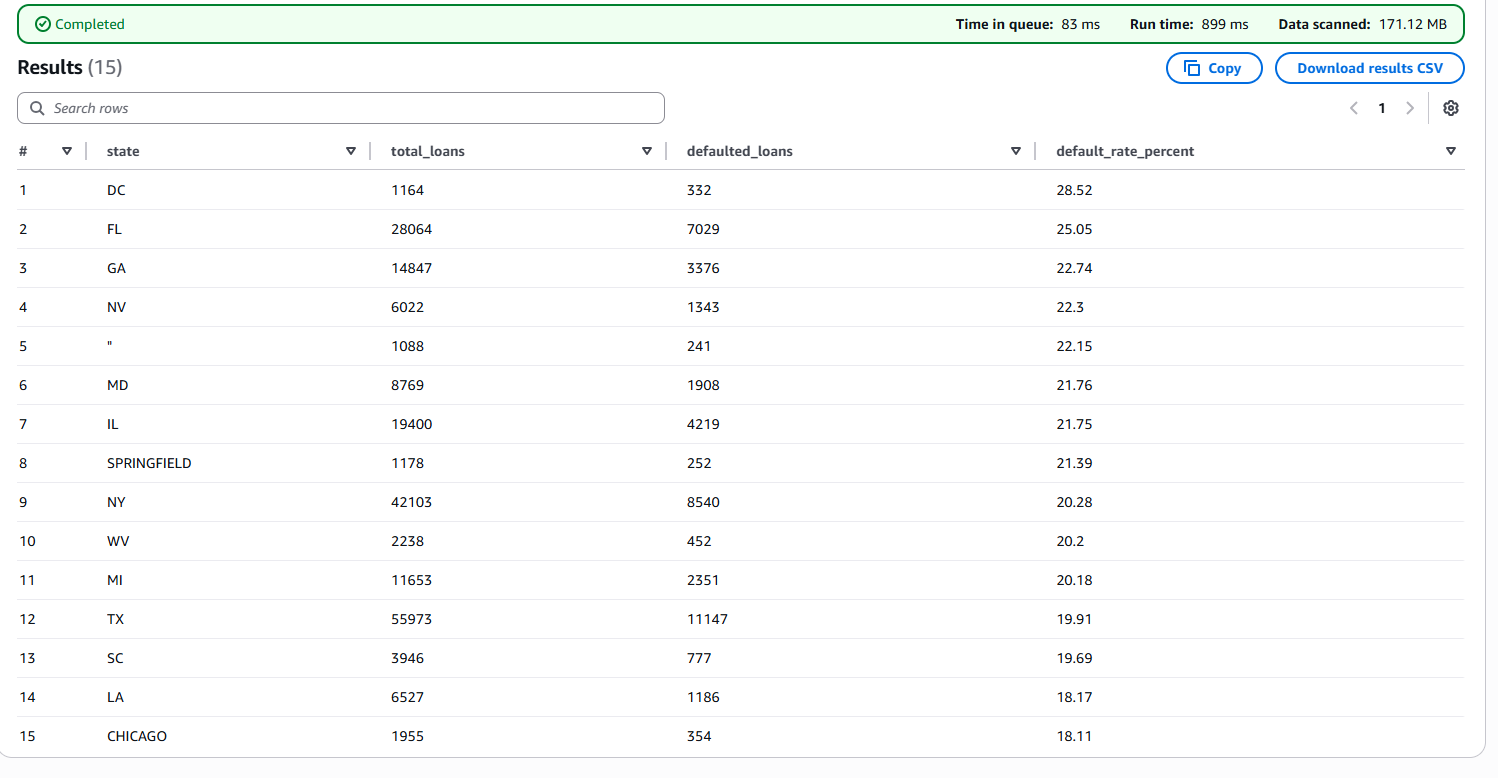
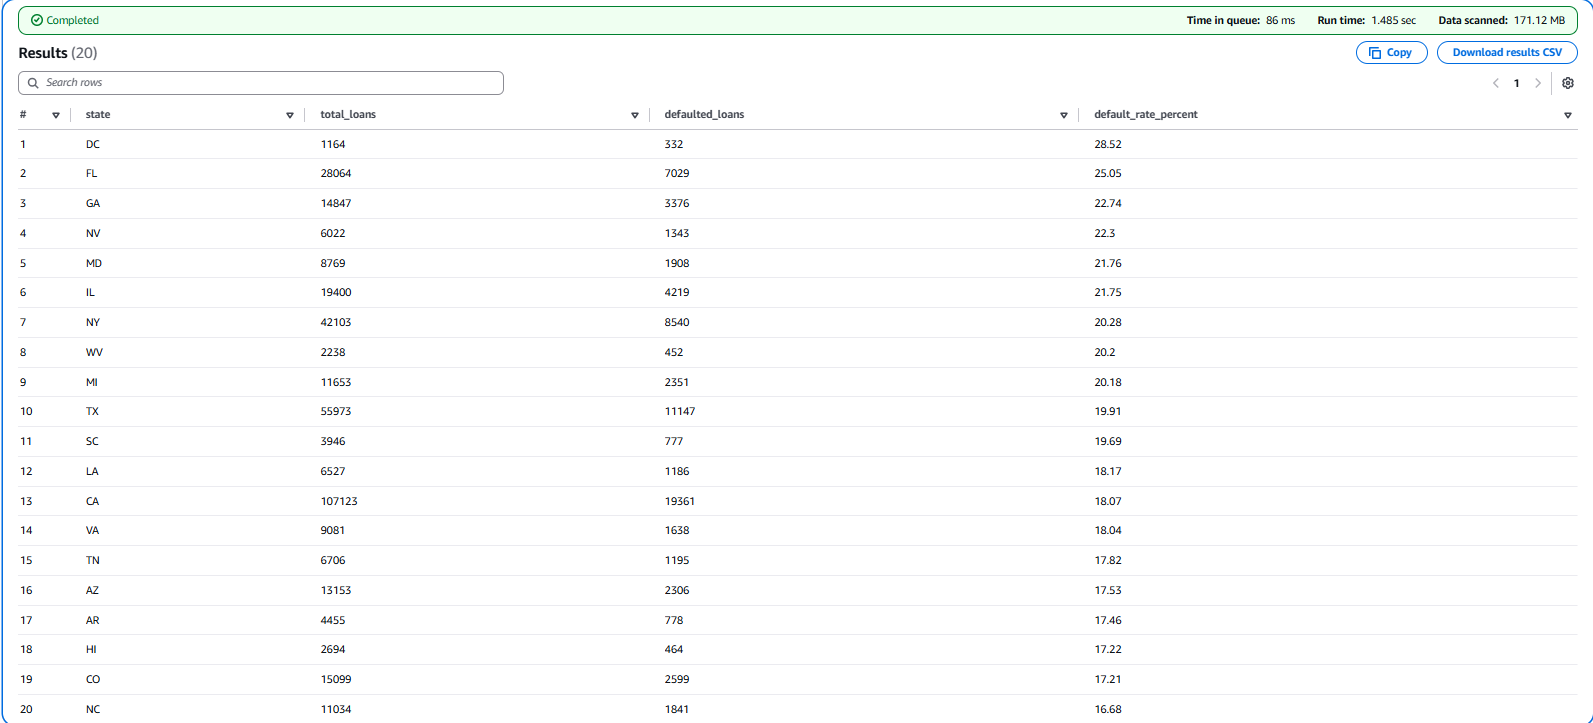
fix state query screenshot, add jobs_retained input, clean up model code

diff --git a/models/risk_model.py b/models/risk_model.py
@@ -7,24 +7,22 @@ from sklearn.preprocessing import StandardScaler
 from sklearn.metrics import accuracy_score, precision_score, recall_score, f1_score, roc_auc_score, confusion_matrix, classification_report
 import pickle
 
-print("Libraries imported!\n")
-
 # Load data
-print("[1/8] Loading data...")
 loans = pd.read_csv('../data/loans_sample.csv')
-print(f"✓ Loaded {len(loans):,} loans\n")
+print(f"loaded {len(loans)} rows")
 
 # Create target
-print("[2/8] Creating target variable...")
+# DEFAULT DEFINITION (consistent across all files):
+# is_default = 1 if chgoffdate has an actual date value
+# is_default = 0 if chgoffdate is NULL, empty string, or 'N' (not charged off)
+# This matches the SQL definition in analysis_queries.sql
 loans['is_default'] = loans['chgoffdate'].apply(
-    lambda x: 0 if (pd.isna(x) or str(x) in ['N', '']) else 1
+    lambda x: 0 if (pd.isna(x) or str(x).strip() in ['N', '']) else 1
 )
 defaults = loans['is_default'].sum()
-print(f"✓ Defaults: {defaults:,} ({defaults/len(loans)*100:.1f}%)\n")
+print(f"defaults: {defaults} ({defaults/len(loans)*100:.1f}%)")
 
 # ENHANCED FEATURE ENGINEERING
-print("[3/8] Engineering features (ENHANCED)...")
-
 # Sector features
 loans['sector'] = loans['naics'].astype(str).str[:2]
 loans['sector_num'] = pd.to_numeric(loans['sector'], errors='coerce').fillna(0)
@@ -86,7 +84,12 @@ loans['large_loan'] = loans['amount'].apply(lambda x: 1 if x >= 250000 else 0)
 # Term categories
 loans['short_term'] = loans['term_val'].apply(lambda x: 1 if x < 120 else 0)
 loans['long_term'] = loans['term_val'].apply(lambda x: 1 if x >= 240 else 0)
-
+print("\n--- TERM_VAL INVESTIGATION ---")
+print("Default rate by short_term flag:")
+print(loans.groupby('short_term')['is_default'].mean())
+print("\nDefault rate by long_term flag:")
+print(loans.groupby('long_term')['is_default'].mean())
+print(f"\nCorrelation between term_val and is_default: {loans['term_val'].corr(loans['is_default']):.4f}")
 # Geographic risk
 high_risk_states = ['DC', 'FL', 'GA', 'NV', 'MD']
 medium_risk_states = ['IL', 'NY', 'WV', 'MI', 'OH']
@@ -105,7 +108,6 @@ loans['triple_risk'] = loans.apply(
     lambda r: 1 if (r['is_new'] == 1 and r['sector_high_risk'] == 1 and r['state_high_risk'] == 1) else 0, axis=1
 )
 
-print("✓ 30+ features engineered!\n")
 
 # Feature list
 features = [
@@ -119,9 +121,8 @@ features = [
     'amount_per_employee', 'amount_per_job_created',
     'double_risk', 'triple_risk'
 ]
-
+print(f"features ready: {len(features)}")
 # Prepare
-print("[4/8] Preparing dataset...")
 df = loans[features + ['is_default']].copy()
 df = df.fillna(0)
 df = df.replace([np.inf, -np.inf], 0)
@@ -132,28 +133,22 @@ df['amount_per_job_created'] = df['amount_per_job_created'].clip(upper=df['amoun
 
 X = df[features]
 y = df['is_default']
-print(f" Dataset: {len(df):,} records with {len(features)} features\n")
+print(f"dataset shape: {df.shape}")
 
 # Split
-print("[5/8] Splitting data...")
 X_train, X_test, y_train, y_test = train_test_split(X, y, test_size=0.2, random_state=42, stratify=y)
-print(f" Train: {len(X_train):,} | Test: {len(X_test):,}\n")
+print(f"train: {len(X_train)}  test: {len(X_test)}")
 
 # Scale
-print("[6/8] Scaling features...")
 scaler = StandardScaler()
 X_train_scaled = scaler.fit_transform(X_train)
 X_test_scaled = scaler.transform(X_test)
-print(" Scaled!\n")
+
 
 # Train BOTH models
-print("[7/8] Training models...")
-print("Training Logistic Regression...")
 lr_model = LogisticRegression(max_iter=1000, random_state=42, solver='lbfgs', class_weight='balanced')
 lr_model.fit(X_train_scaled, y_train)
-print(" Logistic Regression trained!")
-
-print("\nTraining Random Forest (this takes 1-2 minutes)...")
+print("fitting random forest")
 rf_model = RandomForestClassifier(
     n_estimators=100,
     max_depth=15,
@@ -164,12 +159,9 @@ rf_model = RandomForestClassifier(
     n_jobs=-1
 )
 rf_model.fit(X_train, y_train)  # Note: Random Forest doesn't need scaling
-print(" Random Forest trained!\n")
+print("fitting logistic regression")
 
 # Evaluate BOTH
-print("[8/8] Evaluating models...")
-print("LOGISTIC REGRESSION PERFORMANCE")
-
 
 lr_pred = lr_model.predict(X_test_scaled)
 lr_proba = lr_model.predict_proba(X_test_scaled)[:, 1]
@@ -185,8 +177,8 @@ print(f"Precision: {lr_prec*100:.2f}%")
 print(f"Recall:    {lr_rec*100:.2f}%")
 print(f"F1 Score:  {lr_f1*100:.2f}%")
 print(f"ROC AUC:   {lr_auc*100:.2f}%")
-
-print("RANDOM FOREST PERFORMANCE")
+print("\nlogistic regression:")
+print(f"  acc={lr_acc:.3f}  auc={lr_auc:.3f}")
 
 
 rf_pred = rf_model.predict(X_test)
@@ -201,12 +193,6 @@ rf_auc = roc_auc_score(y_test, rf_proba)
 cm = confusion_matrix(y_test, rf_pred)
 tn, fp, fn, tp = cm.ravel()
 
-print(f"Accuracy:  {rf_acc*100:.2f}% ⭐")
-print(f"Precision: {rf_prec*100:.2f}%")
-print(f"Recall:    {rf_rec*100:.2f}%")
-print(f"F1 Score:  {rf_f1*100:.2f}%")
-print(f"ROC AUC:   {rf_auc*100:.2f}% ⭐")
-
 print("\nConfusion Matrix:")
 print(f"  Correct Non-Defaults: {tn:,}")
 print(f"  False Alarms:         {fp:,}")
@@ -214,35 +200,26 @@ print(f"  Missed Defaults:      {fn:,}")
 print(f"  Correct Defaults:     {tp:,}")
 
 
-print(f" WINNER: {'Random Forest' if rf_acc > lr_acc else 'Logistic Regression'}")
-print(f"   Accuracy improved by {abs(rf_acc - lr_acc)*100:.1f} percentage points!")
-
 # Feature importance (Random Forest)
-print("\nTOP 15 MOST IMPORTANT FEATURES (Random Forest):")
 feature_importance = pd.DataFrame({
     'feature': features,
     'importance': rf_model.feature_importances_
 }).sort_values('importance', ascending=False)
 
+print("\nfeature importances (top 15):")
 for i, row in feature_importance.head(15).iterrows():
-    bar_length = int(row['importance'] * 50)
-    bar = '█' * bar_length
-    print(f"{row['feature']:28s} {bar} {row['importance']:.4f}")
-
+    print(f"  {row['feature']:<28} {row['importance']:.4f}")
 # Save BEST model
 best_model = rf_model if rf_acc > lr_acc else lr_model
 best_model_name = "Random Forest" if rf_acc > lr_acc else "Logistic Regression"
 best_acc = rf_acc if rf_acc > lr_acc else lr_acc
 best_auc = rf_auc if rf_acc > lr_acc else lr_auc
-
-print(f"\n[SAVING] Saving {best_model_name} model...")
 with open('trained_model.pkl', 'wb') as f:
     pickle.dump(best_model, f)
 with open('scaler.pkl', 'wb') as f:
     pickle.dump(scaler, f)
 with open('feature_list.pkl', 'wb') as f:
     pickle.dump(features, f)
-
 # Save performance
 with open('model_performance.txt', 'w') as f:
     f.write("SBA LOAN DEFAULT RISK PREDICTION MODEL\n")
@@ -279,29 +256,11 @@ with open('model_performance.txt', 'w') as f:
     for i, row in feature_importance.head(15).iterrows():
         f.write(f"{row['feature']:28s} : {row['importance']:.4f}\n")
 
-print(f" {best_model_name} model saved!")
-print(" Performance report saved!\n")
+print("model saved to models/")
 
 # Business insights
-print("KEY INSIGHTS FROM MODEL")
-
-print("\n STRONGEST DEFAULT PREDICTORS:")
-top_5 = feature_importance.head(5)
-for i, row in top_5.iterrows():
-    print(f"  {i+1}. {row['feature']}")
-
-print(f"\n BUSINESS RECOMMENDATION:")
-if 'is_new' in top_5['feature'].values:
-    print("    New businesses are a major risk factor - require extra scrutiny!")
-if 'state_high_risk' in top_5['feature'].values:
-    print("    Geographic location matters - adjust pricing by state!")
-if 'sector_high_risk' in top_5['feature'].values:
-    print("    Industry sector is critical - avoid high-risk sectors!")
-if 'amount' in top_5['feature'].values:
-    print("    Loan size impacts risk - don't assume small = safe!")
-
-
-print(" MODEL TRAINING COMPLETE!")
-print(f"\n Final Accuracy: {best_acc*100:.2f}%")
-print(f" ROC AUC Score: {best_auc*100:.2f}%")
-print("\n Ready to integrate into dashboard!")
+# top features
+print("\ntop 5 features:")
+for rank, (i, row) in enumerate(feature_importance.head(5).iterrows(), 1):
+    print(f"  {rank}. {row['feature']} ({row['importance']:.4f})")
+print(f"\nbest model: {'rf' if rf_acc > lr_acc else 'lr'}  acc={best_acc:.3f}  auc={best_auc:.3f}")

diff --git a/risk_predictor_app.py b/risk_predictor_app.py
@@ -156,6 +156,12 @@ app.layout = html.Div(style={
                           style={'fontWeight': '700', 'marginBottom': '12px', 'display': 'block', 'color': '#374151', 'fontSize': '17px'}),
                 dcc.Input(id='jobs', type='number', value=5, min=0, className='custom-input')
             ]),
+            html.Div(style={'marginBottom': '30px'}, children=[
+            html.Label('Jobs to Retain',
+                       style={'fontWeight': '700', 'marginBottom': '12px',
+                              'display': 'block', 'color': '#374151', 'fontSize': '17px'}),
+                              dcc.Input(id='jobs-retained', type='number',value=5, min=0, className='custom-input')]),
+            
             
             html.Div(style={'marginBottom': '30px'}, children=[
                 html.Label('📍 Location', 
@@ -209,7 +215,7 @@ app.layout = html.Div(style={
     ]),
     
     html.Div(style={'textAlign': 'center', 'marginTop': '40px', 'color': 'white'}, children=[
-        html.P('🚀 ML-Powered Risk Assessment | Anita Chelladurai',
+        html.P('ML-Powered Risk Assessment | Anita Chelladurai',
                style={'fontSize': '15px', 'opacity': '0.95'})
     ])
 ])
@@ -224,11 +230,12 @@ app.layout = html.Div(style={
      State('business-type', 'value'),
      State('employees', 'value'),
      State('jobs', 'value'),
+     State('jobs-retained', 'value'),
      State('location', 'value'),
      State('loan-flags', 'value')],
     prevent_initial_call=True
 )
-def predict_risk(n_clicks, amount, term, sector, state, biz_type, employees, jobs, location, flags):
+def predict_risk(n_clicks, amount, term, sector, state, biz_type, employees, jobs, jobs_retained, location, flags):
     
     # FIX: Proper conversion - handle None and empty values
     if amount is None or amount == '':
@@ -251,14 +258,17 @@ def predict_risk(n_clicks, amount, term, sector, state, biz_type, employees, job
     else:
         jobs = int(jobs)
     
-    print(f"DEBUG: amount={amount}, term={term}, employees={employees}, jobs={jobs}")  # Debug output
-    
+    try:
+        risk_probability = float(model.predict_proba(input_df)[0][1] * 100)
+    except Exception as e:
+        print(f"prediction error: {e}")
+        risk_probability = 0.0
     features_dict = {
         'amount': amount,
         'term_val': term,
         'employees': employees,
         'jobs_created': jobs,
-        'jobs_retained': 0,
+        'jobs_retained': int(jobs_retained) if jobs_retained else 0,
         'is_new': 1 if biz_type == 'new' else 0,
         'is_established': 1 if biz_type == 'established' else 0,
         'is_recent': 1 if biz_type == 'recent' else 0,

diff --git a/dashboard.py b/dashboard.py
@@ -421,7 +421,7 @@ def build_main_page():
                        'borderRadius': '14px', 'padding': '30px', 'textAlign': 'center',
                        'boxShadow': '0 8px 25px rgba(0,0,0,0.3)',
                        'border': '2px solid rgba(139,92,246,0.2)'}, children=[
-            html.P('🚀 Interactive Dashboard | Python + Dash + Plotly | AWS Pipeline | 👩💻 Anita Chelladurai',
+            html.P('SBA Loan Risk Analysis | Anita Chelladurai',
                    style={'color': '#64748b', 'margin': '0', 'fontSize': '15px', 'fontWeight': '600'})
         ])
     ])
